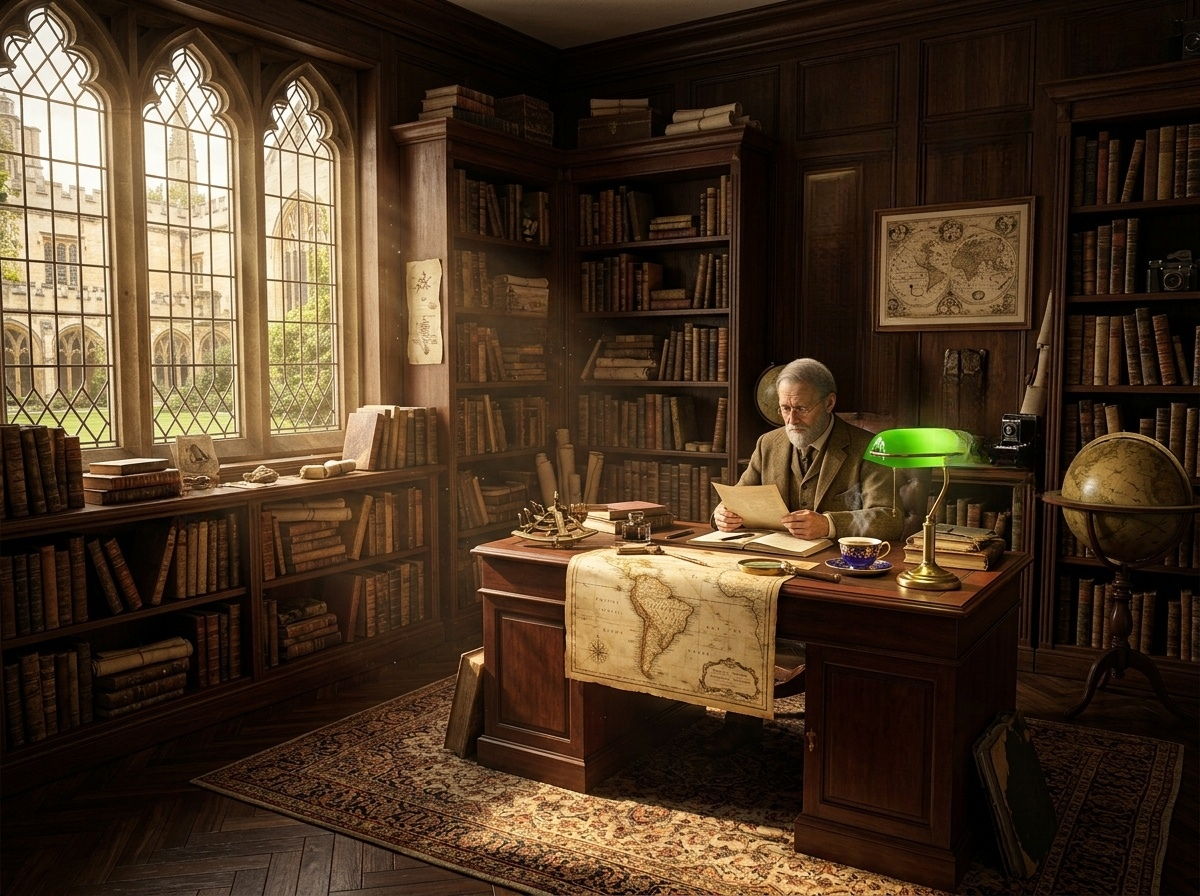
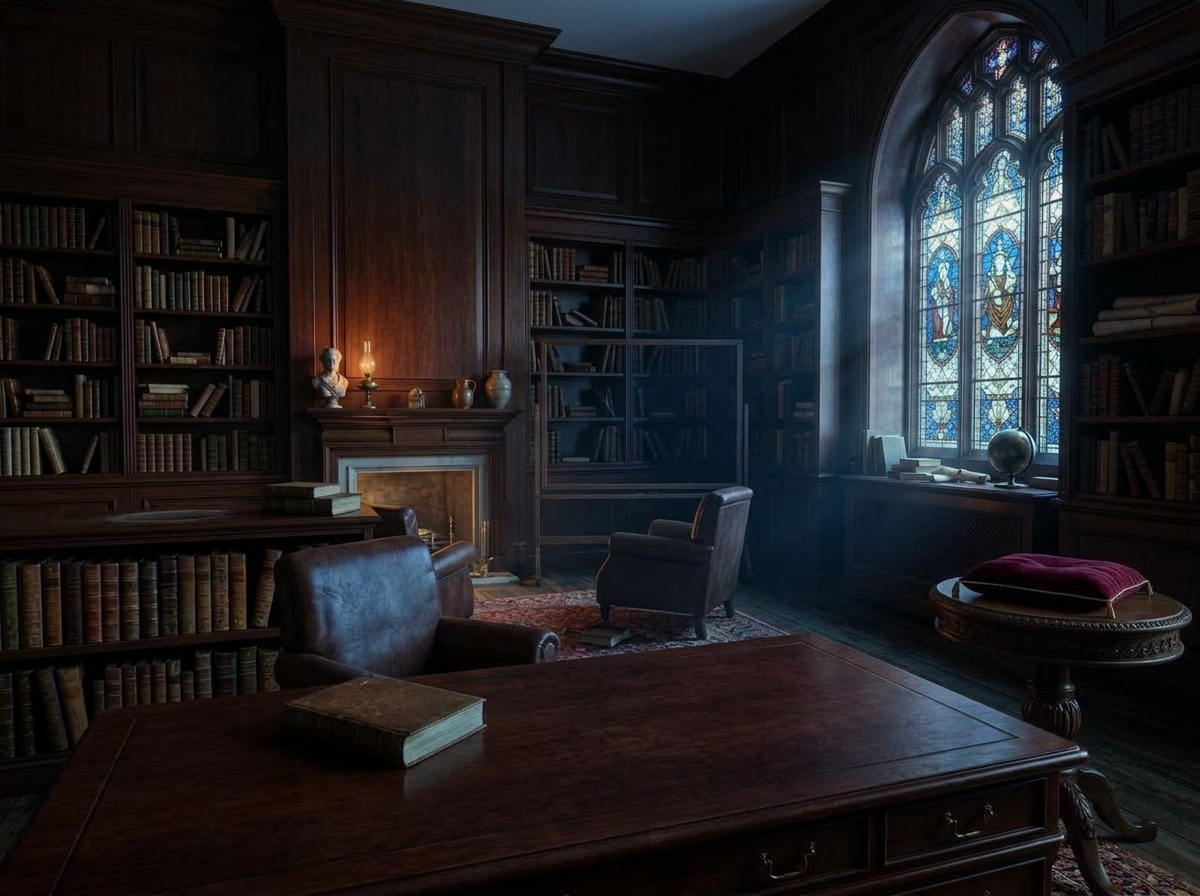
feat(level1): brand new pristine Oxford study scene with 6 prominent clues and perfected tap registration

diff --git a/src/components/ImageComparisonView.tsx b/src/components/ImageComparisonView.tsx
@@ -13,10 +13,9 @@ import {
   Shield,
   FileText,
   Lock,
-  Camera,
-  AlertTriangle,
   CheckCircle2,
   Info,
+  Sun,
 } from 'lucide-react';
 import { AmbientParticles } from './AmbientParticles';
 import { HiddenArtifactSpot } from './HiddenArtifactSpot';
@@ -76,8 +75,11 @@ export const ImageComparisonView: React.FC<ImageComparisonViewProps> = ({
   // Pan & Zoom
   const [scale, setScale] = useState<number>(1);
   const [pan, setPan] = useState<{ x: number; y: number }>({ x: 0, y: 0 });
-  const [isDragging, setIsDragging] = useState<boolean>(false);
   const [dragStart, setDragStart] = useState<{ x: number; y: number }>({ x: 0, y: 0 });
+
+  // Reliable tap vs drag detection
+  const pointerStartRef = useRef<{ x: number; y: number } | null>(null);
+  const isDraggingRef = useRef<boolean>(false);
 
   // Error feedback & shake
   const [errorRipples, setErrorRipples] = useState<ErrorRipple[]>([]);
@@ -157,14 +159,25 @@ export const ImageComparisonView: React.FC<ImageComparisonViewProps> = ({
   };
 
   const handlePointerDown = (e: React.PointerEvent) => {
+    pointerStartRef.current = { x: e.clientX, y: e.clientY };
+    isDraggingRef.current = false;
     if (scale > 1) {
-      setIsDragging(true);
       setDragStart({ x: e.clientX - pan.x, y: e.clientY - pan.y });
     }
   };
 
   const handlePointerMove = (e: React.PointerEvent) => {
-    if (isDragging && scale > 1) {
+    if (pointerStartRef.current) {
+      const dist = Math.hypot(
+        e.clientX - pointerStartRef.current.x,
+        e.clientY - pointerStartRef.current.y
+      );
+      if (dist > 8) {
+        isDraggingRef.current = true;
+      }
+    }
+
+    if (isDraggingRef.current && scale > 1) {
       const newX = e.clientX - dragStart.x;
       const newY = e.clientY - dragStart.y;
       const maxOffset = (scale - 1) * 200;
@@ -176,7 +189,11 @@ export const ImageComparisonView: React.FC<ImageComparisonViewProps> = ({
   };
 
   const handlePointerUp = () => {
-    setIsDragging(false);
+    pointerStartRef.current = null;
+    // reset drag state after small delay so click can check it
+    setTimeout(() => {
+      isDraggingRef.current = false;
+    }, 50);
   };
 
   // Add error feedback
@@ -197,7 +214,8 @@ export const ImageComparisonView: React.FC<ImageComparisonViewProps> = ({
 
   // Hit test click on image
   const handleStageClick = (e: React.MouseEvent<HTMLDivElement>, imageTarget: 0 | 1 = 1) => {
-    if (isDragging) return;
+    // If it was a real drag gesture, don't trigger click
+    if (isDraggingRef.current) return;
 
     const imgElement =
       viewMode === 'crime_scene'
@@ -215,7 +233,8 @@ export const ImageComparisonView: React.FC<ImageComparisonViewProps> = ({
     let matchedDiff: Difference | null = null;
     for (const diff of differences) {
       if (foundDifferenceIds.includes(diff.id)) continue;
-      const tolerance = diff.radius || 8.0;
+      // Generous, forgiving tolerance radius (default 10.0%) so taps always register
+      const tolerance = diff.radius || 10.0;
       const dx = clickXPercent - diff.x;
       const dy = clickYPercent - diff.y;
       const dist = Math.sqrt(dx * dx + dy * dy);
@@ -264,15 +283,15 @@ export const ImageComparisonView: React.FC<ImageComparisonViewProps> = ({
   const getClueIcon = (clueType?: string) => {
     switch (clueType) {
       case 'stolen_relic':
-        return <Shield className="w-3.5 h-3.5 text-amber-400" />;
+        return <Sun className="w-3.5 h-3.5 text-amber-400" />;
       case 'sabotage':
-        return <AlertTriangle className="w-3.5 h-3.5 text-red-400" />;
+        return <Compass className="w-3.5 h-3.5 text-blue-400" />;
       case 'dark_seal':
         return <Lock className="w-3.5 h-3.5 text-purple-400" />;
       case 'torn_evidence':
         return <FileText className="w-3.5 h-3.5 text-amber-300" />;
       default:
-        return <Camera className="w-3.5 h-3.5 text-amber-400" />;
+        return <Shield className="w-3.5 h-3.5 text-amber-400" />;
     }
   };
 
@@ -290,7 +309,7 @@ export const ImageComparisonView: React.FC<ImageComparisonViewProps> = ({
       className={`relative w-full flex-1 min-h-0 bg-[#070402] overflow-hidden flex flex-col items-center justify-between p-1 select-none transition-all duration-75 ${
         isShaking ? 'animate-screen-shake ring-2 ring-red-500/50' : ''
       }`}
-      style={{ cursor: scale > 1 ? (isDragging ? 'grabbing' : 'grab') : 'crosshair' }}
+      style={{ cursor: scale > 1 ? (isDraggingRef.current ? 'grabbing' : 'grab') : 'crosshair' }}
     >
       {/* MODE A: AAA IMMERSIVE CRIME SCENE (FULL SCREEN 100% VIEWPORT) */}
       {viewMode === 'crime_scene' ? (
@@ -302,22 +321,22 @@ export const ImageComparisonView: React.FC<ImageComparisonViewProps> = ({
           }`}
         >
           {/* 4 Antique Brass Corner Brackets */}
-          <div className="brass-corner-bracket brass-corner-tl" />
-          <div className="brass-corner-bracket brass-corner-tr" />
-          <div className="brass-corner-bracket brass-corner-bl" />
-          <div className="brass-corner-bracket brass-corner-br" />
+          <div className="brass-corner-bracket brass-corner-tl pointer-events-none" />
+          <div className="brass-corner-bracket brass-corner-tr pointer-events-none" />
+          <div className="brass-corner-bracket brass-corner-bl pointer-events-none" />
+          <div className="brass-corner-bracket brass-corner-br pointer-events-none" />
 
           {/* Top Status Plate / Dossier Header */}
           <div className="absolute top-2.5 left-2.5 z-25 flex items-center gap-2 pointer-events-none">
             {isArchiveLensActive ? (
               <div className="cartouche-plate px-3 py-1 rounded-xl text-[10px] sm:text-xs font-black text-amber-300 flex items-center gap-1.5 shadow-xl border border-amber-400/80 font-serif animate-pulse bg-amber-950/90 backdrop-blur-md">
                 <Eye className="w-3.5 h-3.5 text-amber-400" />
-                <span className="tracking-wide">LENTE D'ARCHIVIO: STATO ORIGINALE (1924)</span>
+                <span className="tracking-wide">LENTE D'ARCHIVIO: STATO ORIGINALE (1928)</span>
               </div>
             ) : (
               <div className="cartouche-plate px-3 py-1 rounded-xl text-[10px] sm:text-xs font-black text-emerald-300 flex items-center gap-1.5 shadow-xl border border-emerald-500/70 font-serif bg-stone-950/90 backdrop-blur-md">
                 <span className="w-2 h-2 rounded-full bg-red-500 animate-ping" />
-                <span className="tracking-wide">SCENA DEL CRIMINE: RILEVA LE MANOMISSIONI</span>
+                <span className="tracking-wide">SCENA DEL CRIMINE: INDAGA SULLE MANOMISSIONI</span>
               </div>
             )}
 
@@ -369,14 +388,14 @@ export const ImageComparisonView: React.FC<ImageComparisonViewProps> = ({
               >
                 <img
                   src={imageA}
-                  alt="Archivio Originale 1924"
+                  alt="Archivio Originale 1928"
                   draggable={false}
-                  className="w-full h-full object-contain rounded-xl select-none block filter sepia-[0.18] contrast-[1.05]"
+                  className="w-full h-full object-contain rounded-xl select-none block filter sepia-[0.15] contrast-[1.05]"
                 />
                 {/* Archival Film Vignette & Watermark */}
                 <div className="absolute inset-0 bg-gradient-to-t from-black/60 via-transparent to-black/40 shadow-[inset_0_0_90px_rgba(0,0,0,0.85)] pointer-events-none" />
                 <div className="absolute bottom-4 right-4 pointer-events-none px-2 py-0.5 rounded bg-black/70 border border-amber-400/40 text-[9px] font-mono tracking-widest text-amber-300/80 uppercase">
-                  REGISTRO ACCADEMICO OXFORD #1924-A
+                  REGISTRO ACCADEMICO OXFORD #1928-A
                 </div>
               </div>
 
@@ -546,10 +565,10 @@ export const ImageComparisonView: React.FC<ImageComparisonViewProps> = ({
         <div className="relative flex-1 min-h-0 w-full flex flex-col items-center justify-between gap-1 overflow-hidden">
           {/* Viewport 1 (Originale / Image A - Sopra) */}
           <div className="relative flex-1 min-h-0 w-full flex items-center justify-center overflow-hidden rounded-xl archeo-cage">
-            <div className="brass-corner-bracket brass-corner-tl" />
-            <div className="brass-corner-bracket brass-corner-tr" />
-            <div className="brass-corner-bracket brass-corner-bl" />
-            <div className="brass-corner-bracket brass-corner-br" />
+            <div className="brass-corner-bracket brass-corner-tl pointer-events-none" />
+            <div className="brass-corner-bracket brass-corner-tr pointer-events-none" />
+            <div className="brass-corner-bracket brass-corner-bl pointer-events-none" />
+            <div className="brass-corner-bracket brass-corner-br pointer-events-none" />
 
             <div className="absolute top-2 left-2 z-20 cartouche-plate px-2 py-0.5 rounded-lg text-[9px] font-bold text-amber-300 pointer-events-none flex items-center gap-1 shadow-md border border-amber-500/60 font-serif">
               <Compass className="w-3 h-3 text-amber-400" />
@@ -590,10 +609,10 @@ export const ImageComparisonView: React.FC<ImageComparisonViewProps> = ({
 
           {/* Viewport 2 (Sito Scavo / Image B - Sotto) */}
           <div className="relative flex-1 min-h-0 w-full flex items-center justify-center overflow-hidden rounded-xl archeo-cage">
-            <div className="brass-corner-bracket brass-corner-tl" />
-            <div className="brass-corner-bracket brass-corner-tr" />
-            <div className="brass-corner-bracket brass-corner-bl" />
-            <div className="brass-corner-bracket brass-corner-br" />
+            <div className="brass-corner-bracket brass-corner-tl pointer-events-none" />
+            <div className="brass-corner-bracket brass-corner-tr pointer-events-none" />
+            <div className="brass-corner-bracket brass-corner-bl pointer-events-none" />
+            <div className="brass-corner-bracket brass-corner-br pointer-events-none" />
 
             <div className="absolute top-2 left-2 z-20 cartouche-plate px-2 py-0.5 rounded-lg text-[9px] font-bold text-emerald-300 pointer-events-none flex items-center gap-1 shadow-md border border-emerald-500/60 font-serif">
               <MapPin className="w-3 h-3 text-emerald-400" />
@@ -622,7 +641,7 @@ export const ImageComparisonView: React.FC<ImageComparisonViewProps> = ({
         </div>
       )}
 
-      {/* BOTTOM PARCHMENT DOSSIER TRAY */}
+      {/* BOTTOM PARCHMENT DOSSIER TRAY (NOW DYNAMIC FOR 6 CLUES) */}
       <div className="w-full shrink-0 bg-gradient-to-r from-[#170e07] via-[#24160a] to-[#170e07] rounded-xl border border-amber-600/50 p-1.5 shadow-xl mt-1 flex flex-col gap-1">
         <div className="flex items-center justify-between px-1">
           <div className="flex items-center gap-1.5">
@@ -639,8 +658,8 @@ export const ImageComparisonView: React.FC<ImageComparisonViewProps> = ({
           </span>
         </div>
 
-        {/* Clue Badges Row */}
-        <div className="grid grid-cols-5 gap-1 w-full">
+        {/* Clue Badges Row - 6 Columns for 6 Clues */}
+        <div className="grid grid-cols-6 gap-1 w-full">
           {differences.map((diff, index) => {
             const isFound = foundDifferenceIds.includes(diff.id);
             const isSelected = selectedClueId === diff.id;
@@ -653,7 +672,7 @@ export const ImageComparisonView: React.FC<ImageComparisonViewProps> = ({
                   sound.playTap();
                   setSelectedClueId(diff.id);
                 }}
-                className={`flex flex-col items-center justify-center p-1 sm:p-1.5 rounded-lg border transition-all text-center select-none cursor-pointer ${
+                className={`flex flex-col items-center justify-center p-1 rounded-lg border transition-all text-center select-none cursor-pointer ${
                   isFound
                     ? 'bg-gradient-to-b from-amber-900/60 to-yellow-950/80 border-amber-400/80 shadow-[0_0_8px_rgba(245,158,11,0.4)] ring-1 ring-amber-300/50'
                     : 'bg-black/40 border-stone-800 text-stone-500 hover:border-amber-900/50'
@@ -670,7 +689,7 @@ export const ImageComparisonView: React.FC<ImageComparisonViewProps> = ({
                 </div>
 
                 <span
-                  className={`text-[8px] sm:text-[9px] font-serif leading-tight truncate max-w-full ${
+                  className={`text-[8px] font-serif leading-tight truncate max-w-full ${
                     isFound ? 'text-amber-200 font-bold' : 'text-stone-500'
                   }`}
                 >

diff --git a/src/data/levelRegistry.ts b/src/data/levelRegistry.ts
@@ -731,48 +731,57 @@ export function generateAll120Levels(): Level[] {
       diffsForLevel = [
         {
           id: `lvl${id}_d1`,
-          x: 73.75,
-          y: 41.29,
-          radius: 6.0,
+          x: 86.12,
+          y: 56.15,
+          radius: 9.5,
           clueType: 'stolen_relic',
-          name: "Maschera Rituale Fang",
-          loreClue: "L'antica scultura tribale in legno trafugata dalla boiserie: sul retro celava l'incisione del primo passaggio andino."
+          name: "Idolo Solare Inca",
+          loreClue: "La statuetta solare in oro massiccio venerata a Vilcabamba è stata trafugata dal cuscino di velluto: celava le coordinate del primo passo andino."
         },
         {
           id: `lvl${id}_d2`,
-          x: 74.58,
-          y: 14.51,
-          radius: 6.5,
-          clueType: 'sabotage',
-          name: "Casco da Spedizione del 1912",
-          loreClue: "Il copricapo di Sir Fawcett è stato asportato con violenza, lasciando un solco sul rivestimento in mogano."
+          x: 15.30,
+          y: 64.61,
+          radius: 10.0,
+          clueType: 'stolen_relic',
+          name: "Astrolabio Sferico d'Ottone",
+          loreClue: "La monumentale sfera armillare usata per calcolare i solstizi è sparita dal ripiano della libreria."
         },
         {
           id: `lvl${id}_d3`,
-          x: 85.00,
-          y: 53.57,
-          radius: 5.5,
-          clueType: 'stolen_relic',
-          name: "Fotocamera a Soffietto",
-          loreClue: "L'apparecchio a lastre d'argento rubato per far sparire le foto aeree del Rio Madre de Dios."
+          x: 31.57,
+          y: 80.78,
+          radius: 8.5,
+          clueType: 'sabotage',
+          name: "Bussola Marinaresca d'Argento",
+          loreClue: "Lo scrigno in noce con la bussola cardanica di Sir Fawcett è stato asportato per impedirci di orientare la rotta."
         },
         {
           id: `lvl${id}_d4`,
-          x: 69.58,
-          y: 25.67,
-          radius: 6.0,
+          x: 52.94,
+          y: 81.82,
+          radius: 9.5,
           clueType: 'torn_evidence',
-          name: "Tavola Botanica Amazzonica",
-          loreClue: "La pergamena con la mappa delle erbe del Rio delle Amazzoni è stata strappata via dalla parete."
+          name: "Taccuino di Spedizione di Bellini",
+          loreClue: "Il taccuino aperto con gli appunti sul Rio Madre de Dios e il segnalibro di seta scarlatta è stato rubato dalla scrivania."
         },
         {
           id: `lvl${id}_d5`,
-          x: 80.42,
-          y: 46.32,
-          radius: 6.0,
+          x: 61.99,
+          y: 60.52,
+          radius: 8.5,
           clueType: 'dark_seal',
-          name: "Sigillo Araldico Divelto",
-          loreClue: "Il medaglione cerimoniale in bronzo fuso è stato divelto, lasciando residui di ceralacca nera della Mano Oscura."
+          name: "Lampada da Banchiere in Vetro Verde",
+          loreClue: "La lampada in ottone e vetro smeraldo che illuminava le carte è stata rimossa, lasciando lo studio nella penombra."
+        },
+        {
+          id: `lvl${id}_d6`,
+          x: 50.00,
+          y: 46.09,
+          radius: 10.0,
+          clueType: 'torn_evidence',
+          name: "Mappa del Mondo del 1512",
+          loreClue: "La grande carta geografica del navigatore portoghese scomparso nel 1512 è stata sradicata dal telaio in legno scuro."
         },
       ];
     } else if (isLevelTwo) {
